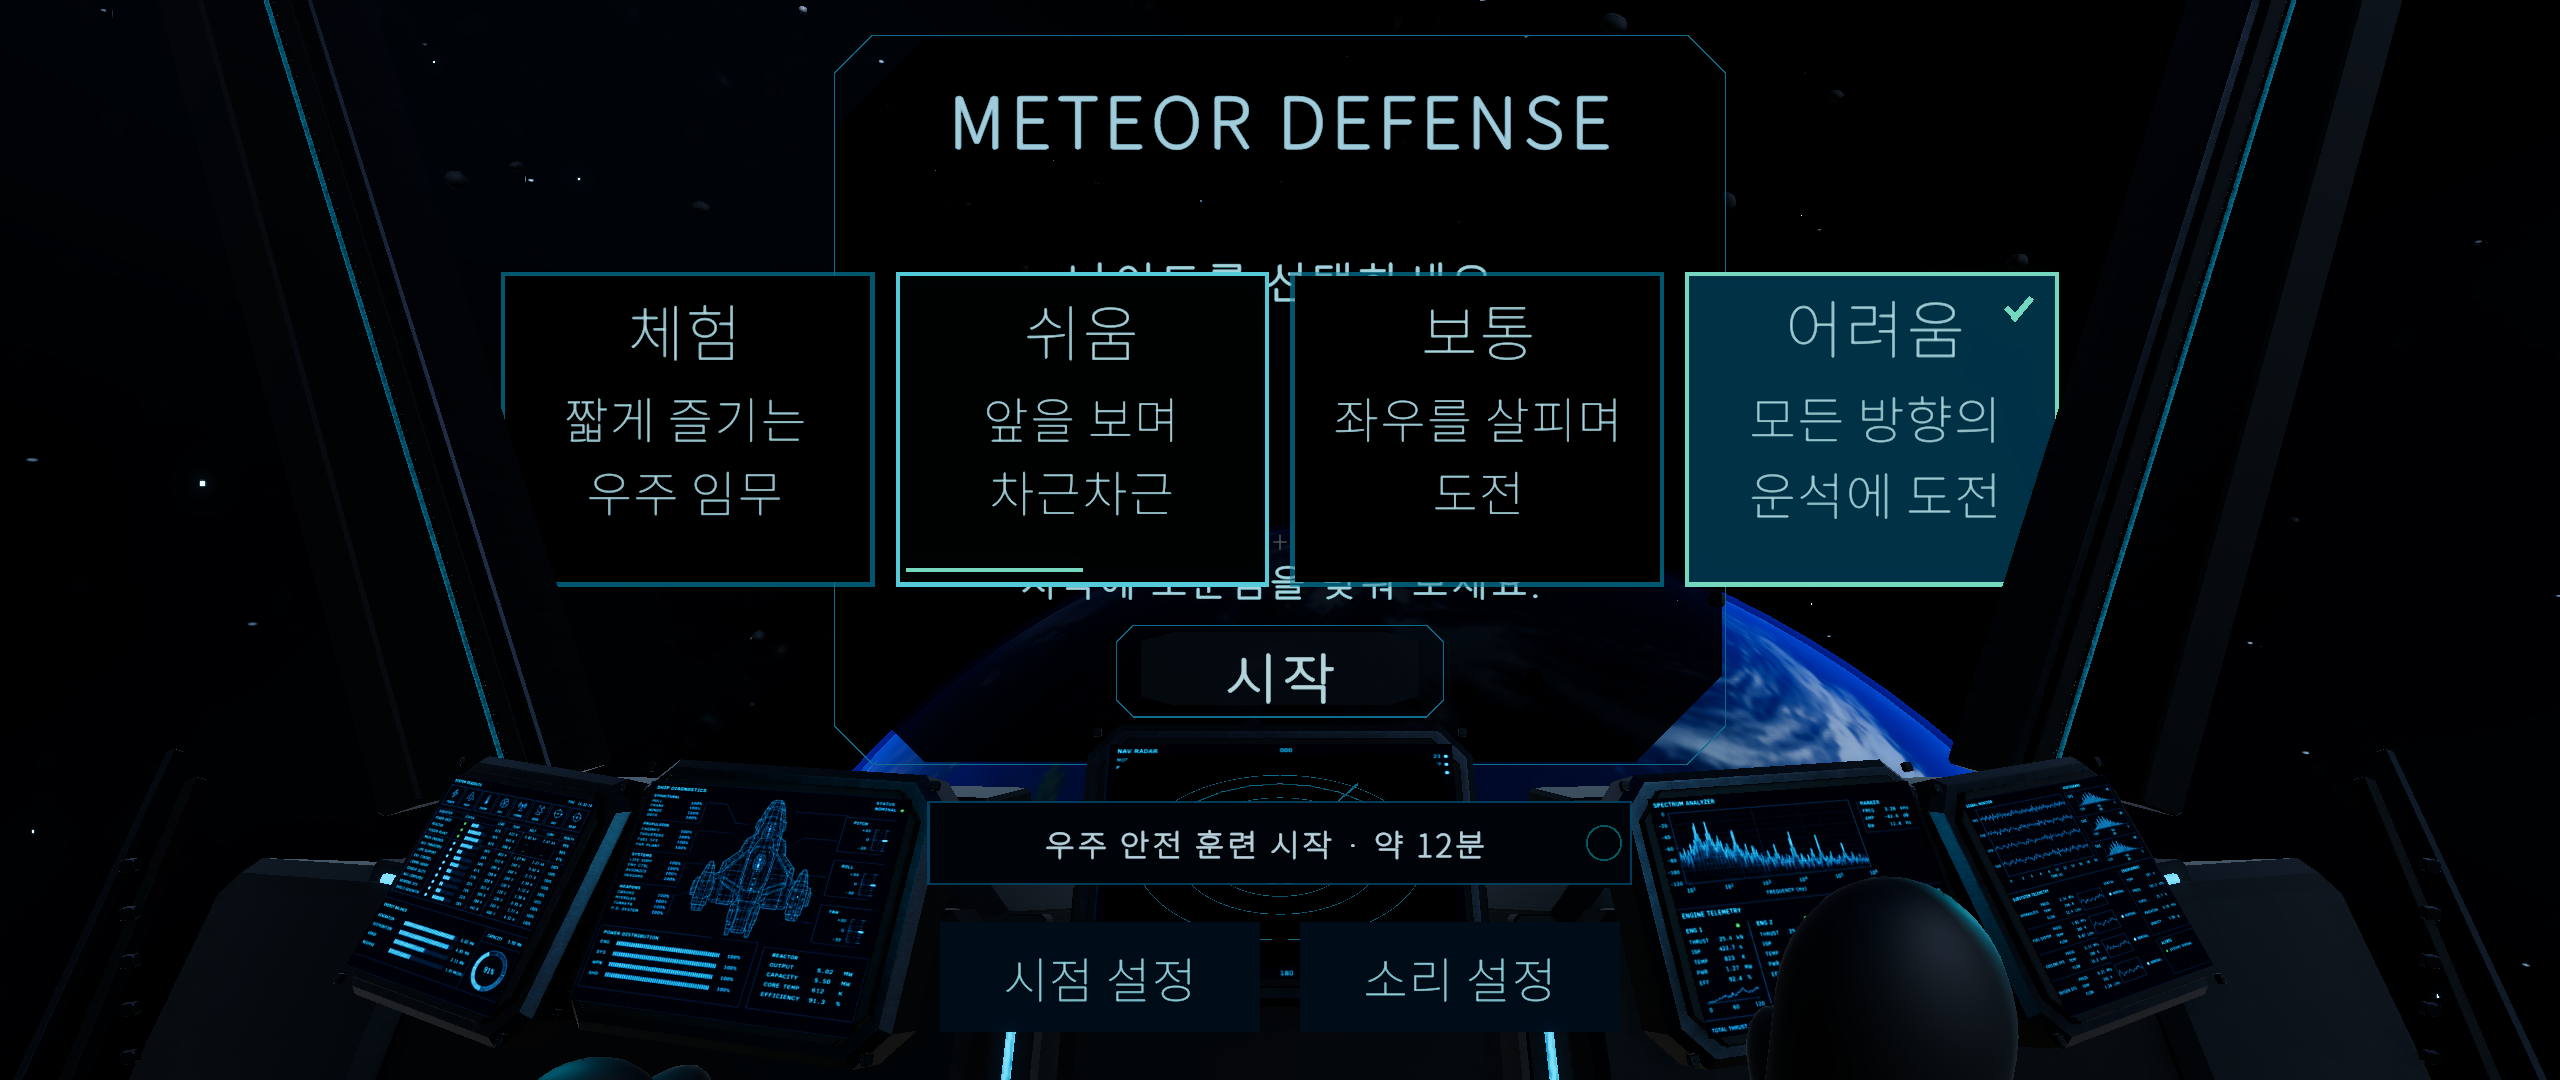
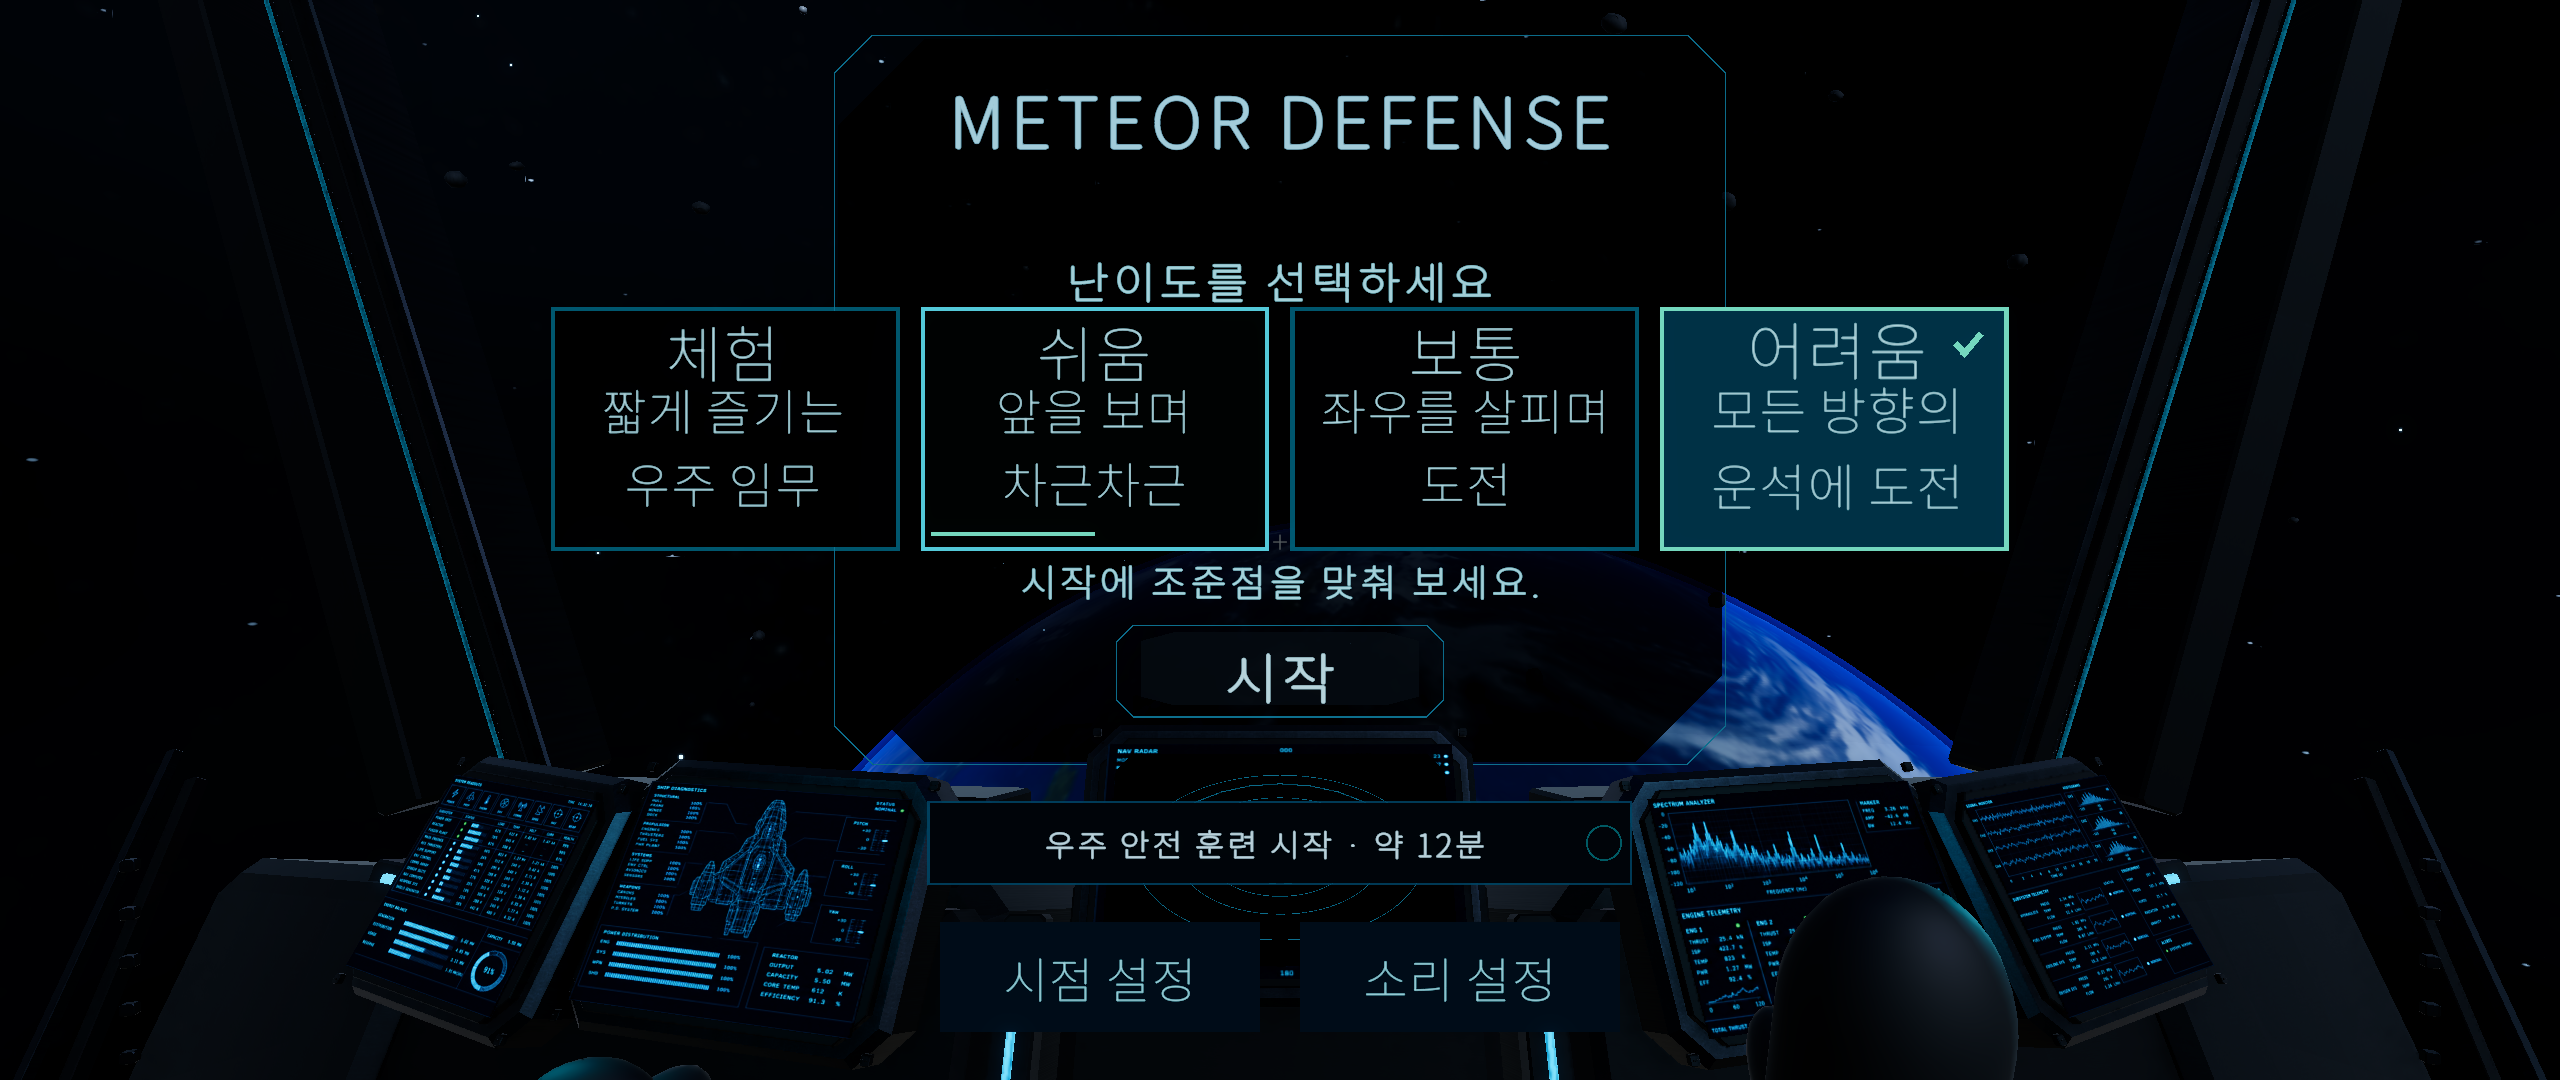
Fit enlarged difficulty cards without reducing text size

Changed region(s): [[0.1875, 0.2444, 0.8125, 0.55], [0.6562, 0.6111, 0.75, 0.7333], [0.1875, 0.3361, 0.2188, 0.3667]]

diff --git a/MeteorDefenseVR/Assets/_Project/PcInput/DifficultySelectionView.cs b/MeteorDefenseVR/Assets/_Project/PcInput/DifficultySelectionView.cs
@@ -93,9 +93,9 @@ namespace MeteorDefenseVR.PcInput
             for (int i = 0; i < choices.Length; i++)
             {
                 DifficultyLevel level = DisplayOrder[i];
-                var card = Image("Difficulty" + level, panel, new Vector2((i - 1.5f) * 188, 0), new Vector2(178, 150), new Color(.07f, .3f, .36f, 1));
+                var card = Image("Difficulty" + level, panel, new Vector2((i - 1.5f) * 176, 0), new Vector2(166, 150), new Color(.07f, .3f, .36f, 1));
                 outlines[i] = card;
-                var fill = Image("Surface", card.transform, Vector2.zero, new Vector2(174, 146), new Color(.012f, .045f, .062f, 1));
+                var fill = Image("Surface", card.transform, Vector2.zero, new Vector2(162, 146), new Color(.012f, .045f, .062f, 1));
                 // Physics IGazeTarget owns mouse dwell and clicks as well as webcam/VR.
                 // GraphicRaycaster must not make GazeInputRouter.PointerOverUi block it.
                 card.raycastTarget = false;
@@ -103,14 +103,14 @@ namespace MeteorDefenseVR.PcInput
                 var body = new GameObject("Label"); body.transform.SetParent(card.transform, false);
                 Label(body.transform, "Title", labels[i], new Vector2(0, 47), 300f, font, material);
                 Label(body.transform, "Description", subtitles[i], new Vector2(0, -12), 240f, font, material);
-                var tickRoot = new GameObject("SelectedCheck"); tickRoot.transform.SetParent(card.transform, false); tickRoot.transform.localPosition = new Vector3(70, 57, -.5f);
+                var tickRoot = new GameObject("SelectedCheck"); tickRoot.transform.SetParent(card.transform, false); tickRoot.transform.localPosition = new Vector3(64, 57, -.5f);
                 var tick1 = Image("TickShort", tickRoot.transform, new Vector2(-4, -2), new Vector2(3, 8), new Color(.35f, 1, .8f));
                 tick1.transform.localRotation = Quaternion.Euler(0, 0, 45);
                 var tick2 = Image("TickLong", tickRoot.transform, new Vector2(1, 0), new Vector2(3, 14), new Color(.35f, 1, .8f));
                 tick2.transform.localRotation = Quaternion.Euler(0, 0, -40);
-                var progress = Image("DwellProgress", card.transform, new Vector2(-84, -67), new Vector2(168, 2), new Color(.35f, 1, .8f));
+                var progress = Image("DwellProgress", card.transform, new Vector2(-78, -67), new Vector2(156, 2), new Color(.35f, 1, .8f));
                 progress.rectTransform.pivot = new Vector2(0, .5f); progress.rectTransform.localScale = new Vector3(0, 1, 1);
-                var collider = card.gameObject.AddComponent<BoxCollider>(); collider.size = new Vector3(178, 150, 2); collider.isTrigger = true;
+                var collider = card.gameObject.AddComponent<BoxCollider>(); collider.size = new Vector3(166, 150, 2); collider.isTrigger = true;
                 // Reuse existing feedback. No independent tween or audio source.
                 var animator = card.gameObject.AddComponent<UIInteractionAnimator>(); animator.SetVisual(body.transform); animator.EnableConfirmCue(AudioCue.LockOn); animator.SetAutomaticPointerConfirm(false);
                 animator.EnableHoverCue(AudioCue.TargetFocus);
@@ -132,7 +132,7 @@ namespace MeteorDefenseVR.PcInput
         {
             var go = new GameObject(name); go.SetActive(false); go.transform.SetParent(parent, false);
             var text = go.AddComponent<TextMeshPro>(); text.font = font; text.fontSharedMaterial = material; text.fontSize = size;
-            text.rectTransform.sizeDelta = new Vector2(name == "Description" ? 160 : 174, name == "Description" ? 80 : 35); text.transform.localPosition = new Vector3(position.x, position.y, -2f);
+            text.rectTransform.sizeDelta = new Vector2(name == "Description" ? 156 : 162, name == "Description" ? 80 : 35); text.transform.localPosition = new Vector3(position.x, position.y, -2f);
             text.color = new Color(.78f, .97f, 1); text.alignment = TextAlignmentOptions.Center; text.enableAutoSizing = false;
             text.textWrappingMode = name == "Description" ? TextWrappingModes.Normal : TextWrappingModes.NoWrap; text.text = content; text.raycastTarget = false;
             // TMP is a mesh, not a Canvas graphic: explicitly put it above the card Canvas.
@@ -142,6 +142,20 @@ namespace MeteorDefenseVR.PcInput
         private void Layout()
         {
             aspect = view.aspect; fov = view.fieldOfView;
+            // Preserve enlarged type while using the extra vertical card padding only on narrow views.
+            float compact = lobbyAnchor != null ? 0 : Mathf.InverseLerp(4f/3f, 16f/9f, aspect);
+            float height = Mathf.Lerp(150,116,compact);
+            panel.sizeDelta = new Vector2(704,height);
+            foreach (var card in choices)
+            {
+                ((RectTransform)card.transform).sizeDelta = new Vector2(166,height);
+                ((RectTransform)card.transform.Find("Surface")).sizeDelta = new Vector2(162,height-4);
+                card.GetComponent<BoxCollider>().size = new Vector3(166,height,2);
+                card.transform.Find("Label/Title").localPosition = new Vector3(0,Mathf.Lerp(47,37,compact),-2);
+                card.transform.Find("Label/Description").localPosition = new Vector3(0,Mathf.Lerp(-12,-8,compact),-2);
+                card.transform.Find("SelectedCheck").localPosition = new Vector3(64,height*.5f-18,-.5f);
+                ((RectTransform)card.transform.Find("DwellProgress")).anchoredPosition = new Vector2(-78,-height*.5f+8);
+            }
             if (lobbyAnchor != null)
             {
                 panel.SetPositionAndRotation(lobbyAnchor.position, lobbyAnchor.rotation);

diff --git a/MeteorDefenseVR/Docs/DeliveryQA/readable-menu-text-20261023/verification.md b/MeteorDefenseVR/Docs/DeliveryQA/readable-menu-text-20261023/verification.md
@@ -11,3 +11,7 @@ Regression13/14 passed; disabled-feedback lifecycle failed after hide/show becau
 Final-checks3/3 passed, resolving disabled lifecycle failure;14 unique affected tests have passing latest results. Actual800/wide record labels readable and upper border inside viewport. Tightened decorative frame bottom to remain above cockpit (555high, center-22.5, same top255) and added spacing below tab borders to column headings/first row. One final render-only run validates this visual refinement; input/collider positions unchanged.
 
 Final render1/1 passed (20actual scene images, both sizes); minimum start/lobby locked originals now readable with semantic lines and original high-contrast labels; current check retained. Both record originals show readable lower notice, separated table headers, full frame above cockpit. Final executable inspection still pending; tests alone are not visual acceptance. User ProjectSettings remains excluded.
+
+Rejected private candidate f11a426 after direct wide start original:150-high cards at wide projection overlap instruction/prompt and outer card edges touch cockpit pillars (intermediate-wide-start-overlap.png). Not packaged/published. No font reduction: keep300/240 type, narrow card width/spacing slightly and remove extra vertical padding on wide start (150→116 card height), retaining full two-line descriptions. Lobby retains taller cards. Validate wide start plus new collider geometry before a new build.
+
+Final-fit suite passed; actual wide+minimum locked start originals reviewed: instruction/prompt fully visible, card edges clear of cockpit, all description words readable, unchanged300/240 fonts. Same ray/collider menu and difficulty regressions passed. New source build next; f11a426 private candidate remains unshipped.
